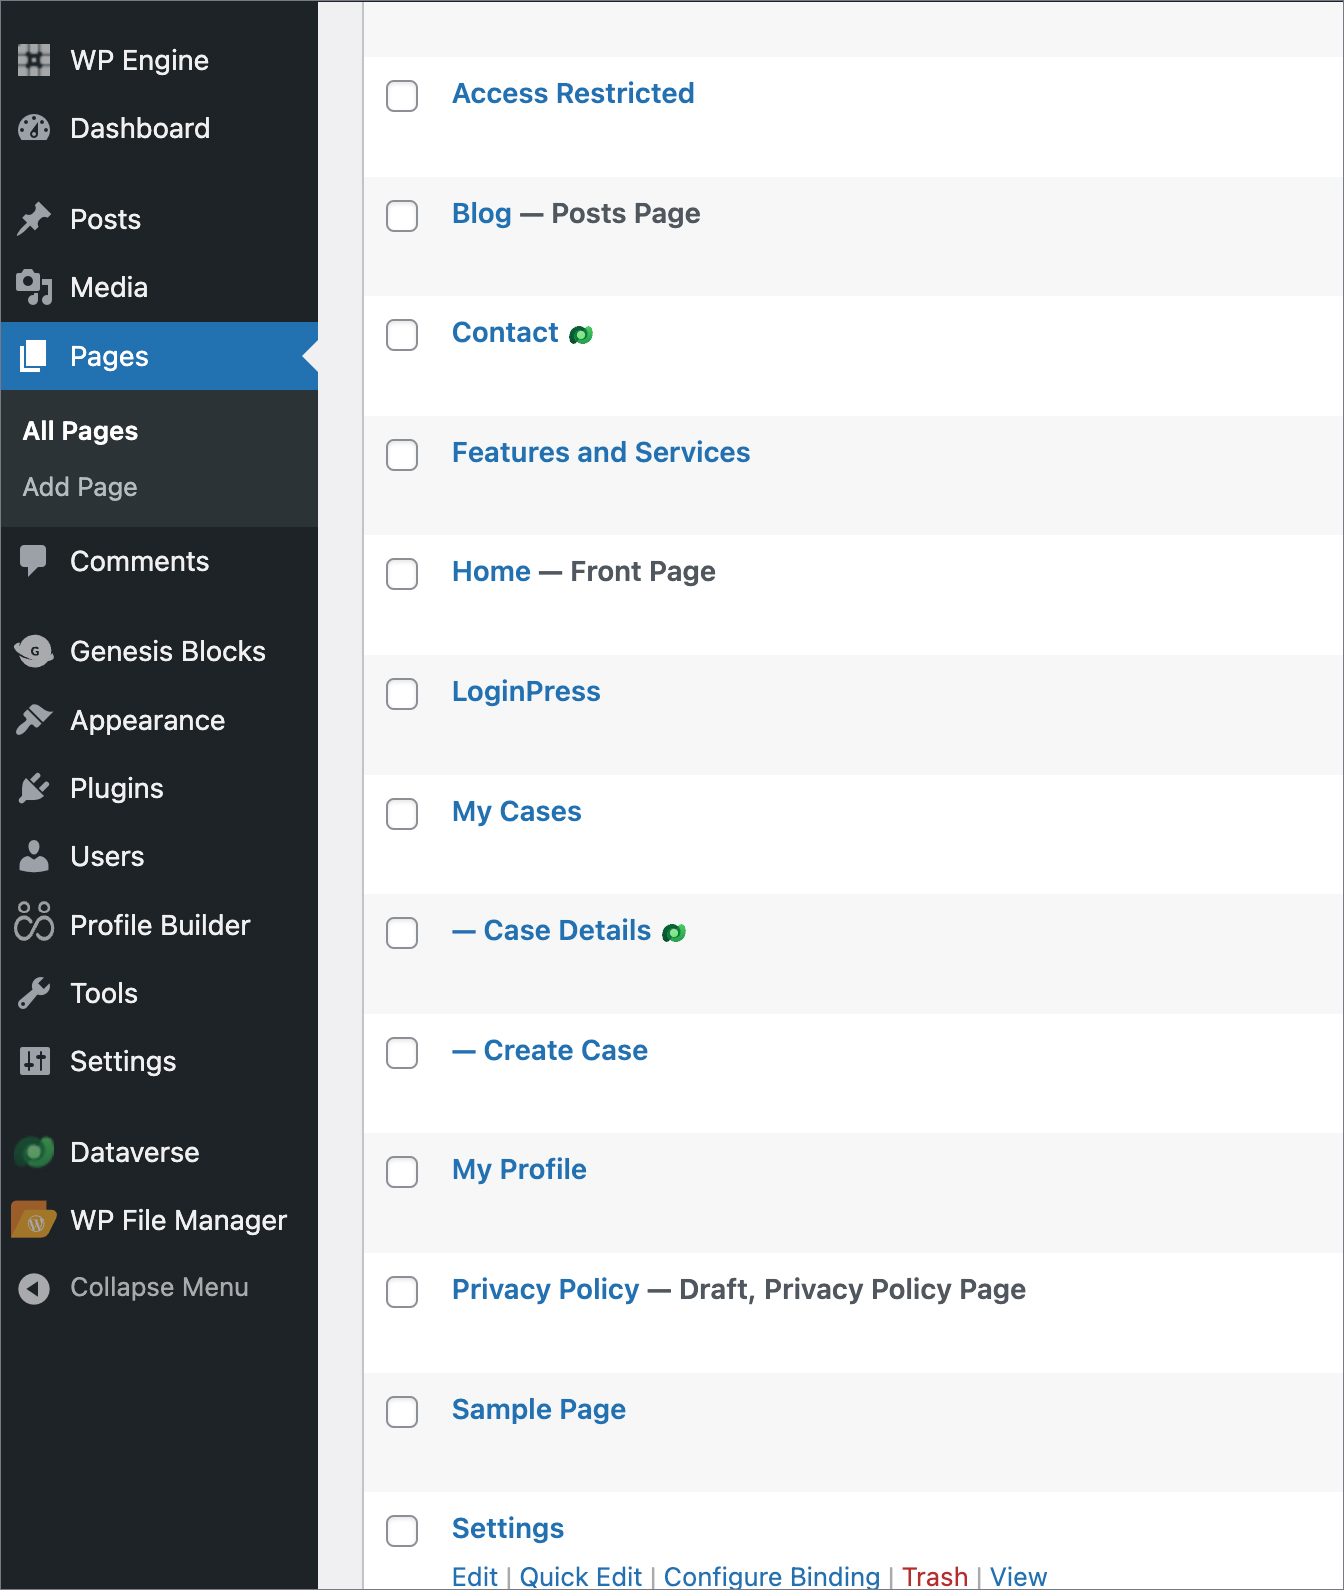
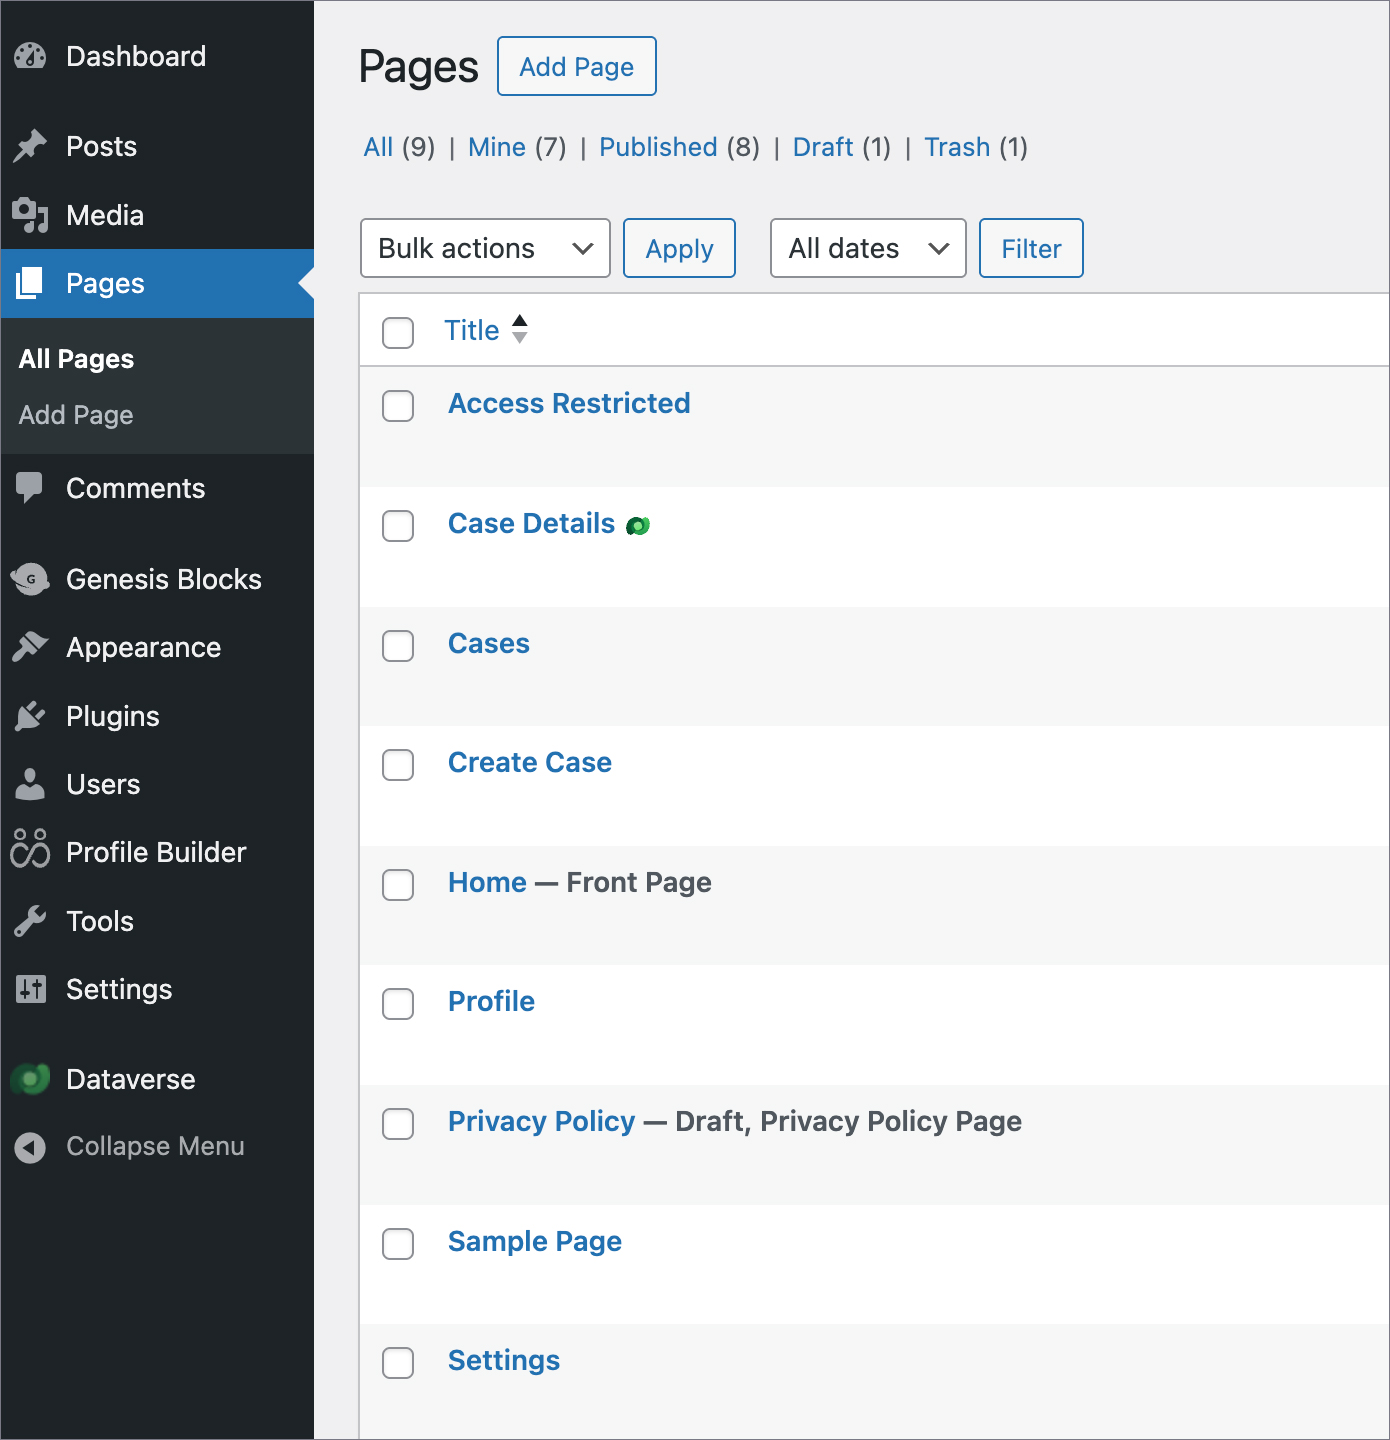
The names of the wordpress  pages were changed

diff --git a/datapress/Samples/RapidStart Customer Service/rs_install_wordpress_components.md b/datapress/Samples/RapidStart Customer Service/rs_install_wordpress_components.md
@@ -59,7 +59,7 @@ The twig templates are stored under Dataverse → Templates → Twig Templates.
 </div>
 
 ### WordPress Pages
-Add required pages **Access Restricted**, **My Cases**, **Case Details**, **Create Case**, **My Profile**, and **Settings**
+Add required pages **Access Restricted**, **Cases**, **Case Details**, **Create Case**, **Profile**, and **Settings**
 
 <div class="text--center">
 <img src="/images/rs_wp-pages.jpg" alt="WordPress Pages" width="600" />
@@ -81,15 +81,15 @@ Thank you for your understanding!"
 
 Add link to your login page on 'log in' words.
 
-In the **My Cases** page: 
+In the **Cases** page: 
 ```twig
 {{ include('styles') }}
 {% if not user.is_bound %}
     <script>
-        window.location.href = "https://forceworks.com.au/log-in";
+        window.location.href = "https://<your-site-url>/access-restricted";
     </script>
 {% else %}
-    {{ include('list_cases') }}
+{{ include('my_profile') }}
 {% endif %}
 ```
 
@@ -99,7 +99,7 @@ In the **Case Details** page:
 {{ include('styles') }}
 {% if not user.is_bound %}
     <script>
-        window.location.href = "https://forceworks.com.au/log-in";
+        window.location.href = "https://<your-site-url>/access-restricted";
     </script>
 {% else %}
 {{ include('case_details') }}
@@ -112,19 +112,19 @@ In the **Create Case** page:
 {{ include('styles') }}
 {% if not user.is_bound %}
     <script>
-        window.location.href = "https://forceworks.com.au/log-in";
+        window.location.href = "https://<your-site-url>/access-restricted";
     </script>
 {% else %}
 {{ include('create_case') }}
 {% endif %}
 ```
 
-In the **My Profile** page: 
+In the **Profile** page: 
 ```twig
 {{ include('styles') }}
 {% if not user.is_bound %}
     <script>
-        window.location.href = "https://forceworks.com.au/log-in";
+        window.location.href = "https://<your-site-url>/access-restricted";
     </script>
 {% else %}
 {{ include('my_profile') }}
@@ -136,7 +136,7 @@ In the **Settings** page:
 {{ include('styles') }}
 {% if not user.is_bound %}
     <script>
-        window.location.href = "https://forceworks.com.au/log-in";
+        window.location.href = "https://<your-site-url>/access-restricted";
     </script>
 {% else %}
 [wppb-edit-profile]

diff --git a/datapress/Samples/Event Ticketing/overview_and_supported_features.md b/datapress/Samples/Event Ticketing/overview_and_supported_features.md
@@ -8,7 +8,7 @@ tags:
 keywords: [DataPress Event Ticketing Overview and Supported Features]  
 ---
 
-Event Ticketing is a comprehensive, ready-made integration that connects your Event Ticketing WordPress site with Dynamics 365 Customer Insights – Journeys, powered by DataPress.
+DataPress Event Ticketing is a comprehensive, ready-made integration that connects your Event Ticketing WordPress site with Dynamics 365 Customer Insights – Journeys, powered by DataPress.
 
 This solution provides a structured and user-friendly way to explore upcoming and past events and ensures a seamless registration experience for your customers while giving you enhanced control over managing event registration journeys efficiently.
 
@@ -141,6 +141,6 @@ Registered users have the ability to update their profile information, such as t
 Additionally, the profile page displays a list of all events the user is registered for, providing a convenient overview of their registrations.
 
 <div class="text--center">
-<img src="/images/page_profile.jpg" alt="User Profile Page" width="800" />
+<img src="/images/page_profile.jpg" alt="User Profile Page" width="8çc00" />
 </div>
 <br></br>
